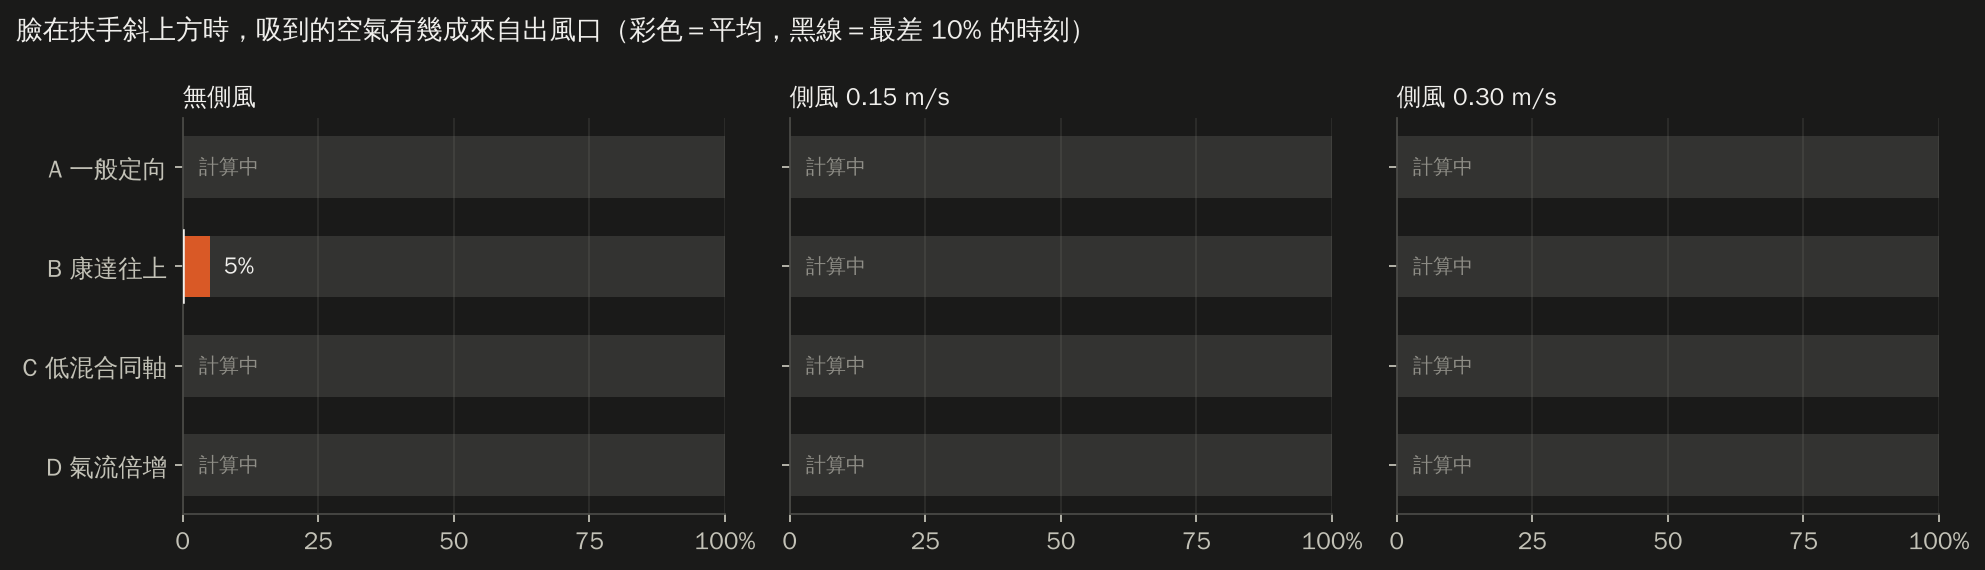
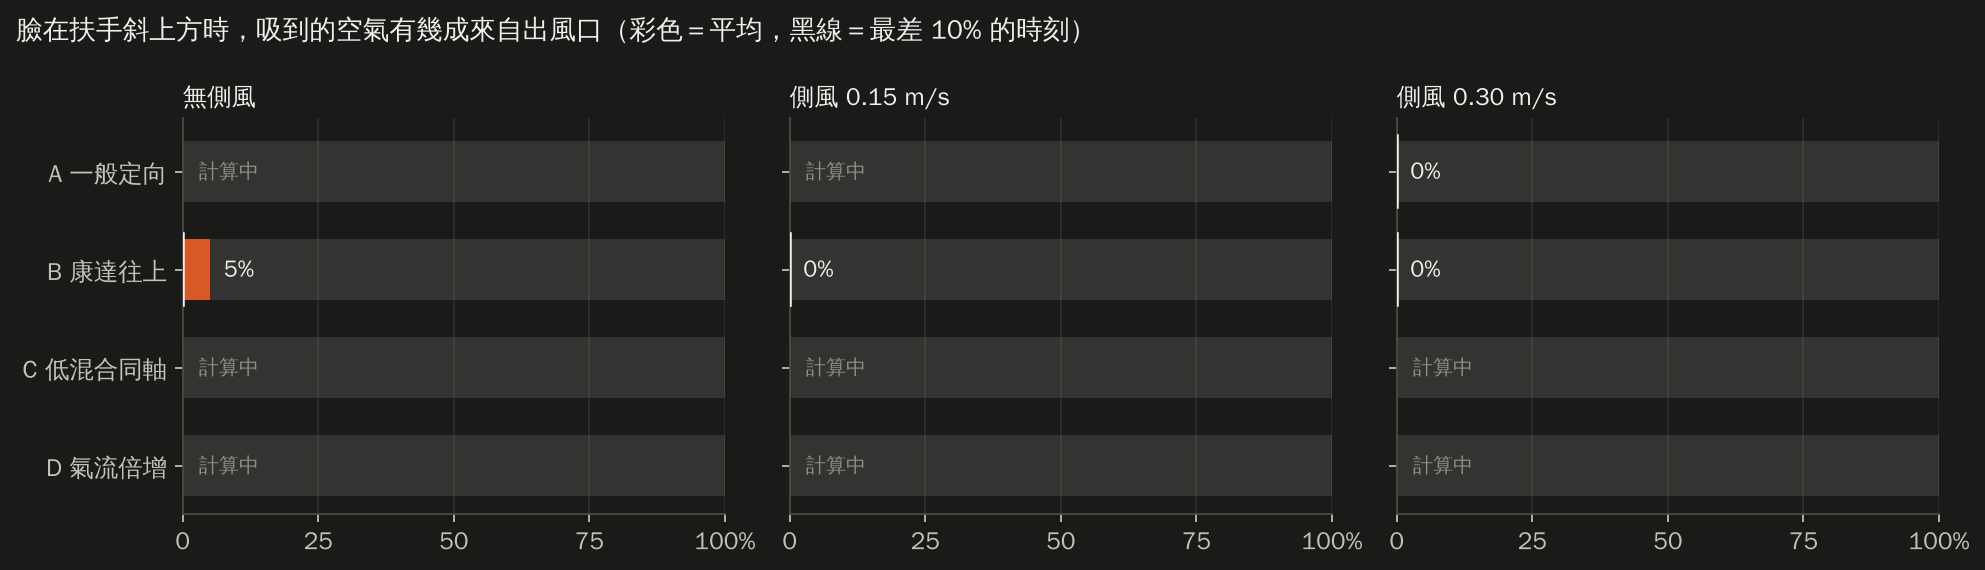
Face-above: 4/12 results (B all conditions, A crossflow 0.30), tighter panels, interim note
Claude-Session: https://claude.ai/code/session_01CLMVR9XzZXdsSKCMSLUbBG

diff --git a/stairwell-airflow-sim/report/index.html b/stairwell-airflow-sim/report/index.html
@@ -173,7 +173,7 @@ footer { margin-top: 48px; padding-top: 20px; border-top: 1px solid var(--line);
   <h1>扶手送風模擬報告</h1>
   <p class="question">一根貫穿整棟樓的扶手，平時能不能流通、淨化空氣？火災時能幫逃生者做到什麼？用電腦模擬一項一項檢查。</p>
   <div class="meta"><span>日期 <b>2026-10-19</b></span><span>專案 <b>長庚大學工業設計學系 林煜宸</b></span><span>模擬與撰寫 <b>Claude（AI）</b></span></div>
-  <div class="progress" role="status"><p>臉在斜上方的出風口重算：已完成 1/12 組，整體約 41%，預計台灣時間 <b>22:46</b> 前後完成</p><div class="bar" aria-hidden="true"><span style="width:41.3%"></span></div><div class="chips"><span class="chip chip-done"><b>B 康達往上</b>・無側風　完成</span><span class="chip chip-run"><b>B 康達往上</b>・側風 0.15　94%</span><span class="chip chip-run"><b>B 康達往上</b>・側風 0.30　90%</span><span class="chip chip-run"><b>A 一般</b>・側風 0.30　96%</span><span class="chip chip-run"><b>C 低混合</b>・側風 0.30　0%</span><span class="chip chip-wait"><b>D 倍增</b>・側風 0.30　排隊中</span><span class="chip chip-wait"><b>A 一般</b>・無側風　排隊中</span><span class="chip chip-wait"><b>A 一般</b>・側風 0.15　排隊中</span><span class="chip chip-wait"><b>D 倍增</b>・無側風　排隊中</span><span class="chip chip-wait"><b>D 倍增</b>・側風 0.15　排隊中</span><span class="chip chip-wait"><b>C 低混合</b>・側風 0.15　排隊中</span><span class="chip chip-wait"><b>C 低混合</b>・無側風　排隊中</span></div><p class="muted small">進度在每次更新報告時重新計算（最後更新：台灣時間 10/19 22:12）。</p></div>
+  <div class="progress" role="status"><p>臉在斜上方的出風口重算：已完成 4/12 組，整體約 46%，預計台灣時間 <b>22:49</b> 前後完成</p><div class="bar" aria-hidden="true"><span style="width:45.9%"></span></div><div class="chips"><span class="chip chip-done"><b>B 康達往上</b>・無側風　完成</span><span class="chip chip-done"><b>B 康達往上</b>・側風 0.15　完成</span><span class="chip chip-done"><b>B 康達往上</b>・側風 0.30　完成</span><span class="chip chip-done"><b>A 一般</b>・側風 0.30　完成</span><span class="chip chip-run"><b>C 低混合</b>・側風 0.30　12%</span><span class="chip chip-run"><b>D 倍增</b>・側風 0.30　8%</span><span class="chip chip-run"><b>A 一般</b>・無側風　5%</span><span class="chip chip-run"><b>A 一般</b>・側風 0.15　0%</span><span class="chip chip-wait"><b>D 倍增</b>・無側風　排隊中</span><span class="chip chip-wait"><b>D 倍增</b>・側風 0.15　排隊中</span><span class="chip chip-wait"><b>C 低混合</b>・側風 0.15　排隊中</span><span class="chip chip-wait"><b>C 低混合</b>・無側風　排隊中</span></div><p class="muted small">進度在每次更新報告時重新計算（最後更新：台灣時間 10/19 22:15）。</p></div>
 </header>
 <nav class="toc" aria-label="章節">
   <a href="#summary">一頁看懂</a><a href="#method">怎麼測的</a><a href="#daily">平時：新風帶</a><a href="#fire">火災：守護路線</a>
@@ -445,17 +445,18 @@ footer { margin-top: 48px; padding-top: 20px; border-top: 1px solid var(--line);
 
 <section id="nozzle">
   <h2><span class="no">04</span>四種出風口比一比（臉在扶手斜上方）</h2>
-  <p class="oneliner">臉在扶手斜上方時（已完成 1/12 組），目前口鼻乾淨空氣最高的是 B 康達往上（無側風）：5%。</p>
+  <p class="oneliner">臉在扶手斜上方時（已完成 4/12 組），目前口鼻乾淨空氣最高的是 B 康達往上（無側風）：5%。</p>
   <figure class="fig render"><img class="img-any" src="assets/render_nozzles.webp" alt="四種扶手側面出風口形式比較" loading="lazy"><figcaption>四種出風口的造型構想（設計渲染圖）。圖中文字是設計構想，實際結果以下方模擬為準。</figcaption></figure>
   <figure class="fig"><img class="img-light" src="assets/s2f_saf_bars.png" alt="臉在斜上方時四種出風口的乾淨空氣比例" loading="lazy"><img class="img-dark" src="assets/s2f_saf_bars_dark.png" alt="臉在斜上方時四種出風口的乾淨空氣比例" loading="lazy"><figcaption>每條橫條代表 100% 的吸入空氣，彩色部分是來自出風口的乾淨空氣。黑色短線是最差 10% 的時刻。</figcaption></figure>
   <div class="points prose">
 <p><b>為什麼重算：</b>人扶著內側扶手下樓時，臉在扶手的<b>斜上方</b>，不是正前方。這組把口鼻放在出風口往樓梯側 28 cm、往上 35 cm（距離約 45 cm、仰角約 51°）；A、C、D 出風口改成朝向口鼻，B 改用藏在底面、往上轉的康達出風口。每公尺送風量都是 5 L/s，網格 1.5 mm。<span class="tag tag-sim">模擬結果</span></p>
-<div class="table-wrap"><table><thead><tr><th scope="col">出風口</th><th scope="col">無側風</th><th scope="col">側風 0.15</th><th scope="col">側風 0.30</th></tr></thead><tbody><tr><th scope="row">A 一般定向</th><td class="num">計算中</td><td class="num">計算中</td><td class="num">計算中</td></tr><tr><th scope="row">B 康達往上</th><td class="num">5%</td><td class="num">計算中</td><td class="num">計算中</td></tr><tr><th scope="row">C 低混合同軸</th><td class="num">計算中</td><td class="num">計算中</td><td class="num">計算中</td></tr><tr><th scope="row">D 氣流倍增</th><td class="num">計算中</td><td class="num">計算中</td><td class="num">計算中</td></tr></tbody></table></div>
-<p class="muted">已完成 1/12 組，其餘計算中；每完成一批就會更新。</p></div>
+<div class="table-wrap"><table><thead><tr><th scope="col">出風口</th><th scope="col">無側風</th><th scope="col">側風 0.15</th><th scope="col">側風 0.30</th></tr></thead><tbody><tr><th scope="row">A 一般定向</th><td class="num">計算中</td><td class="num">計算中</td><td class="num">0%</td></tr><tr><th scope="row">B 康達往上</th><td class="num">5%</td><td class="num">0%</td><td class="num">0%</td></tr><tr><th scope="row">C 低混合同軸</th><td class="num">計算中</td><td class="num">計算中</td><td class="num">計算中</td></tr><tr><th scope="row">D 氣流倍增</th><td class="num">計算中</td><td class="num">計算中</td><td class="num">計算中</td></tr></tbody></table></div>
+<p><b>目前看到的現象（3 組有側風的結果）：</b>有側風時，出風口吹出的乾淨空氣一離開扶手，就被由下往上的氣流帶著<b>貼著扶手正上方往上走</b>，到不了往樓梯側 28 cm 外的臉，口鼻都是 0%。B 康達往上確實有沿圓角轉向上（下面的圖看得到深藍色貼著導風腔轉彎），但轉上去之後一樣直直往上，沒有往臉的方向偏。<span class="tag tag-sim">模擬結果</span></p>
+<p class="muted">已完成 4/12 組，其餘計算中；每完成一批就會更新。</p></div>
   <figure class="fig"><img class="img-light" src="assets/s2f_vc00_fields.png" alt="臉在斜上方、無側風" loading="lazy"><img class="img-dark" src="assets/s2f_vc00_fields_dark.png" alt="臉在斜上方、無側風" loading="lazy"><figcaption>無側風：紅圈是口鼻位置，顏色越深代表出風口的空氣越多。</figcaption></figure>
-  <figure class="fig"><div class="pending-box">計算中：臉在斜上方、側風 0.15 m/s</div><figcaption>側風 0.15 m/s（由下往上）。</figcaption></figure>
+  <figure class="fig"><img class="img-light" src="assets/s2f_vc15_fields.png" alt="臉在斜上方、側風 0.15 m/s" loading="lazy"><img class="img-dark" src="assets/s2f_vc15_fields_dark.png" alt="臉在斜上方、側風 0.15 m/s" loading="lazy"><figcaption>側風 0.15 m/s（由下往上）。</figcaption></figure>
   <figure class="fig"><div class="pending-box">動畫計算中</div><figcaption>動畫（臉在斜上方、側風 0.15 m/s）。每格 0.08 秒。</figcaption></figure>
-  <figure class="fig"><div class="pending-box">計算中：臉在斜上方、側風 0.30 m/s</div><figcaption>側風 0.30 m/s。</figcaption></figure>
+  <figure class="fig"><img class="img-light" src="assets/s2f_vc30_fields.png" alt="臉在斜上方、側風 0.30 m/s" loading="lazy"><img class="img-dark" src="assets/s2f_vc30_fields_dark.png" alt="臉在斜上方、側風 0.30 m/s" loading="lazy"><figcaption>側風 0.30 m/s。</figcaption></figure>
   <details class="more"><summary>展開早期設定：臉在出風口正前方 35 cm（舊版 S2）</summary><div class="more-body"><p class="prose">早期把臉放在出風口正前方、同一高度（蹲低的姿勢）。這組結果保留作為對照：低混合同軸在無側風時 91%，但只要有 0.15 m/s 側風，四種都是 0%。</p><figure class="fig"><img class="img-light" src="assets/s2_saf_bars.png" alt="早期設定的乾淨空氣比例" loading="lazy"><img class="img-dark" src="assets/s2_saf_bars_dark.png" alt="早期設定的乾淨空氣比例" loading="lazy"><figcaption>早期設定（臉在正前方 35 cm）。</figcaption></figure><figure class="fig"><img class="img-light" src="assets/s2_head_vc00_fields.png" alt="早期設定、無側風" loading="lazy"><img class="img-dark" src="assets/s2_head_vc00_fields_dark.png" alt="早期設定、無側風" loading="lazy"><figcaption>早期設定、無側風。</figcaption></figure><figure class="fig"><img class="img-light" src="assets/s2_head_vc15_fields.png" alt="早期設定、側風 0.15" loading="lazy"><img class="img-dark" src="assets/s2_head_vc15_fields_dark.png" alt="早期設定、側風 0.15" loading="lazy"><figcaption>早期設定、側風 0.15 m/s：送出的空氣被吹到扶手上方。</figcaption></figure><figure class="fig"><video src="assets/s2_head_vc15.mp4" controls muted loop playsinline preload="metadata"></video><figcaption>早期設定動畫（側風 0.15 m/s）。</figcaption></figure><div class="points prose">
 <ul>
 <li><b>低混合率同軸（C）最準：</b>寬出口、慢風速、外圈再加一圈更慢的風「護送」，送到臉前時幾乎沒有混到周圍空氣（91%，最差時刻也有 90%）。<span class="tag tag-sim">模擬結果</span></li>

diff --git a/stairwell-airflow-sim/report/findings.py b/stairwell-airflow-sim/report/findings.py
@@ -265,9 +265,17 @@ def build_findings(ctx):
         best = max(f2, key=lambda n: f2[n]["mean"])
         face_one = (f"臉在扶手斜上方時（已完成 {n_done}/12 組），目前口鼻乾淨空氣最高的是 "
                     f"{FL[best[0]]}（{dict(CL)[best[2:]]}）：{pct(f2[best]['mean'])}。")
+    windy = [v["mean"] for k, v in f2.items() if not k.endswith("vc00")]
+    face_interim = ""
+    if windy and max(windy) < 0.05:
+        face_interim = (f'<p><b>目前看到的現象（{len(windy)} 組有側風的結果）：</b>有側風時，出風口吹出的乾淨空氣一離開扶手，'
+                        f'就被由下往上的氣流帶著<b>貼著扶手正上方往上走</b>，到不了往樓梯側 28 cm 外的臉，口鼻都是 0%。'
+                        f'B 康達往上確實有沿圓角轉向上（下面的圖看得到深藍色貼著導風腔轉彎），但轉上去之後一樣直直往上，沒有往臉的方向偏。'
+                        f'{tag("sim")}</p>')
     face_points = f"""
 <p><b>為什麼重算：</b>人扶著內側扶手下樓時，臉在扶手的<b>斜上方</b>，不是正前方。這組把口鼻放在出風口往樓梯側 28 cm、往上 35 cm（距離約 45 cm、仰角約 51°）；A、C、D 出風口改成朝向口鼻，B 改用藏在底面、往上轉的康達出風口。每公尺送風量都是 5 L/s，網格 1.5 mm。{tag("sim")}</p>
 {face_table}
+{face_interim}
 <p class="muted">已完成 {n_done}/12 組，其餘計算中；每完成一批就會更新。</p>"""
 
     # ---------- S6：守住扶手旁 50 cm ----------

diff --git a/stairwell-airflow-sim/analysis/s2f_post.py b/stairwell-airflow-sim/analysis/s2f_post.py
@@ -42,7 +42,7 @@ def load(name):
 def field_panel(loaded, cond, lbl):
     if not any(f"{nz}_{cond}" in loaded for nz in NZ):
         return
-    fig, axs = plt.subplots(1, 4, figsize=(15, 5.4), sharey=True)
+    fig, axs = plt.subplots(1, 4, figsize=(15, 3.85), sharey=True)
     im = None
     for ax, nz in zip(axs, NZ):
         ax.grid(False)
@@ -74,7 +74,7 @@ def field_panel(loaded, cond, lbl):
     axs[0].set_ylabel("cm")
     if im is not None:
         fig.colorbar(im, ax=axs, shrink=0.8, pad=0.01).set_label("乾淨空氣比例")
-    fig.suptitle(f"臉在扶手斜上方、{lbl}：紅圈是口鼻位置", x=0.01, ha="left", fontsize=12)
+    fig.suptitle(f"臉在扶手斜上方、{lbl}：紅圈是口鼻位置", x=0.01, y=0.99, ha="left", fontsize=12)
     save(fig, f"s2f_{cond}_fields.png")
 
 
